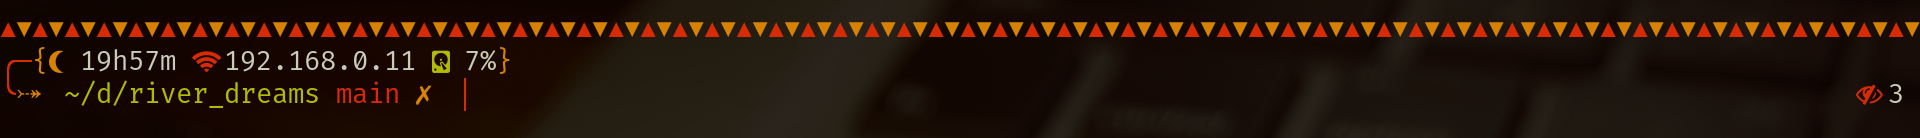
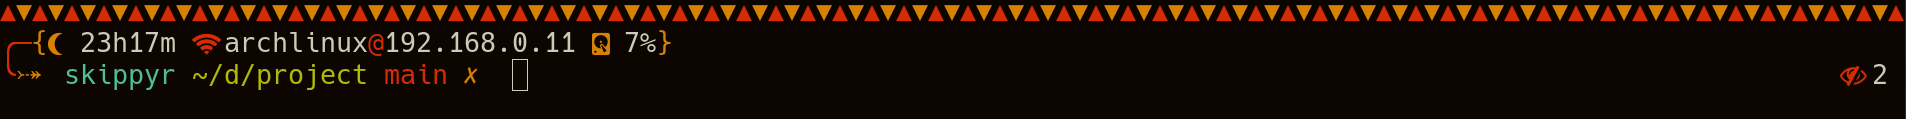
docs: update description and preview

diff --git a/sources/left_prompt.c b/sources/left_prompt.c
@@ -130,7 +130,7 @@ print_disk_usage_percentage(void)
 	);
 	const unsigned long total = sysdisk_status.f_blocks * sysdisk_status.f_bsize;
 	printf(
-		" %%F{green}%s%%f%u%%%%",
+		" %%F{yellow}%s%%f%u%%%%",
 		is_to_use_fallback_text()
 		? "DISK "
 		: " ",

diff --git a/README.md b/README.md
@@ -1,15 +1,15 @@
 # River Dreams
 
-An easy to use and fast ZSH theme for programmers and hackers.
+A fast and versatile ZSH theme for programmers and hackers.
 
-> River Dreams with pretty symbols from Noto Sans and Nerd Fonts.
+> River Dreams with pretty symbols.
 ![](images/image_0.png)
 > River Dreams with fallback text.
 ![](images/image_1.png)
 
 It shows:
 + current hours and minutes in 24h format.
-+ local ipv4 address with hostname.
++ local ipv4 address and hostname.
 + disk usage percentage.
 + sourced Python virtual environment.
 + exit code of failed commands.
@@ -23,7 +23,7 @@ It shows:
 + executable files quantity for the current directory.
 + symbolic links quantity for the current directory.
 
-River Dreams also contains fallback text that can be used when your terminal can not render pretty symbols.
+It also contains fallback text that can be used when your terminal can not render pretty symbols.
 
 
 ## Installation
@@ -35,6 +35,7 @@ River Dreams also contains fallback text that can be used when your terminal can
 	```bash
 	git clone --depth 1 https://github.com/skippyr/river_dreams ~/.config/zsh/themes/river_dreams
 	```
+If you do not have `git` installed, you can download the source code from the page on GitHub.
 
 + add a source rule in your `~/.zshrc` pointing to the file `river_dreams.zsh-theme` inside the repository you have cloned.
 
